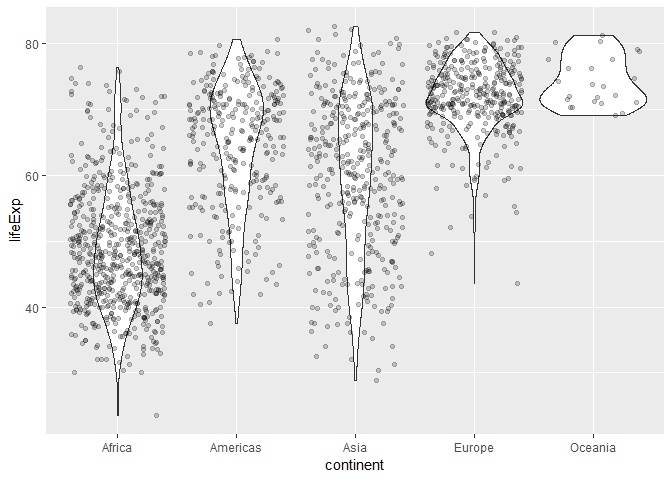
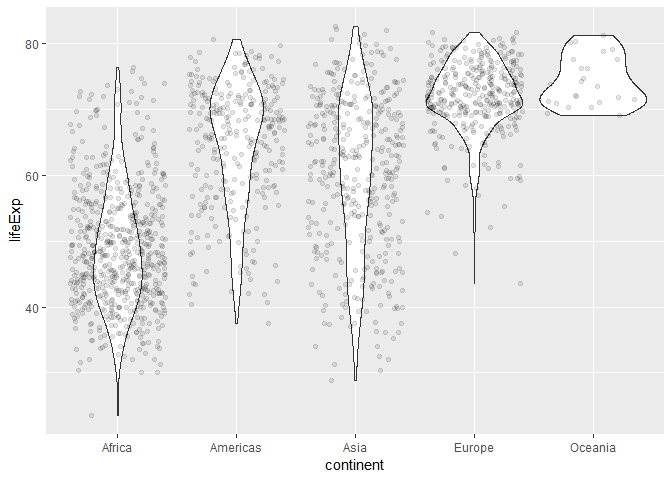
chunk labels

diff --git a/hw02-schignel.md b/hw02-schignel.md
@@ -18,25 +18,30 @@ The following exercise explores the **gapminder** dataset using a number of tool
 Preparation
 -----------
 
-### Load "tidyverse"
+### Load Packages
 
 Note: The tidyverse package includes the dplyr package!
 
 ``` r
 #install.packages("tidyverse")
+#install.packages("ggplot2")
 library(tidyverse)
 ```
 
-    ## -- Attaching packages --------------------------------------------------------------------- tidyverse 1.2.1 --
+    ## -- Attaching packages -------------------------------------------------- tidyverse 1.2.1 --
 
     ## v ggplot2 3.0.0     v purrr   0.2.5
     ## v tibble  1.4.2     v dplyr   0.7.6
     ## v tidyr   0.8.1     v stringr 1.3.1
     ## v readr   1.1.1     v forcats 0.3.0
 
-    ## -- Conflicts ------------------------------------------------------------------------ tidyverse_conflicts() --
+    ## -- Conflicts ----------------------------------------------------- tidyverse_conflicts() --
     ## x dplyr::filter() masks stats::filter()
     ## x dplyr::lag()    masks stats::lag()
+
+``` r
+library(ggplot2)
+```
 
 ### Load the data
 
@@ -155,13 +160,13 @@ Notice that `str` also includes variable names, types, and examples of the data 
 Variable exploration
 --------------------
 
-Let's explore how life expectancy across continents.
+Let's explore how life expectancy varies across continents.
 
 #### Select out one of each type of variable:
 
 ``` r
 cvsl <-select(gapminder, continent, lifeExp, pop) #Factor, #Number, and #Integer, respectively
-cvsl
+cvsl # continents vs life expactancy
 ```
 
     ## # A tibble: 1,704 x 3
@@ -179,7 +184,7 @@ cvsl
     ## 10 Asia         41.8 22227415
     ## # ... with 1,694 more rows
 
-Conduct a basic `summary` of the data:
+#### Conduct a basic `summary` of the data:
 
 ``` r
 summary(cvsl)
@@ -199,7 +204,23 @@ The mininum life expectancy across all continents is **22.60**, and the max is *
 
 The minimum population is **60,010** and the maximum population is **1,319,000,000**.
 
-Those are both very large ranges!
+Those are both very large ranges! Let's visualize them with a violin plot.
+
+#### Violin plot
+
+Use ggplot2 to generate a violin plot and overlay some jittered points:
+
+``` r
+ggplot(cvsl, aes(continent, lifeExp))+
+  geom_violin()+
+  geom_jitter(alpha=0.1)
+```
+
+![](hw02-schignel_files/figure-markdown_github/violin-1.png)
+
+Interesting, we can see that, in the data period (1952-2007), there is a fairly large range for each continent, with the exception of Oceania. In fact, Oceania is on par with Europe, and is the only continent with a life expectancy completely above 65.
+
+I wonder if this has anything to do with it? ![*Perhaps this is a factor?*](https://media.giphy.com/media/ZEfxSNTqFx3yM/giphy.gif)
 
 R Markdown
 ----------
